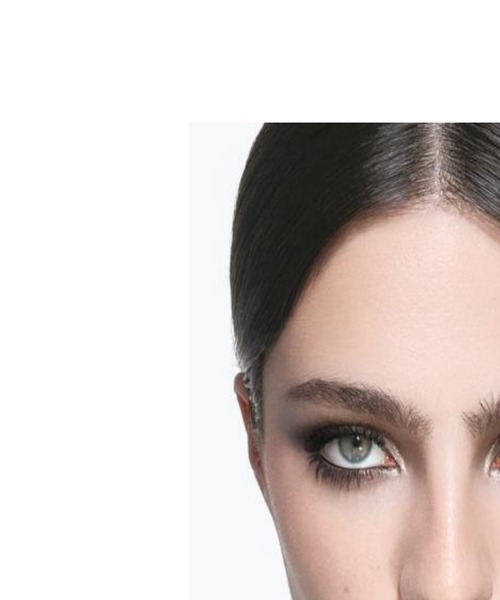
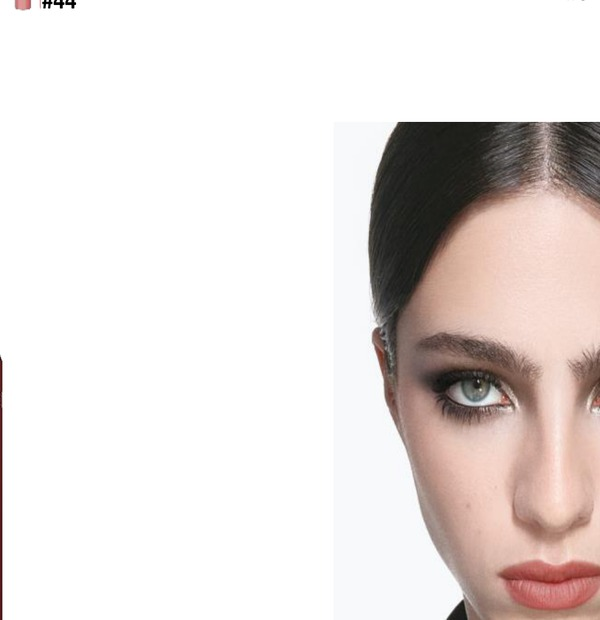
v5: wider model crops with lips+products visible, contain fit

diff --git a/app/index.html b/app/index.html
@@ -268,8 +268,8 @@ button{font-family:inherit;cursor:pointer;border:none;background:none;color:inhe
 
 /* Model photo */
 .combo-model{
-  width:100%;aspect-ratio:5/6;object-fit:cover;object-position:center top;
-  filter:brightness(.92) contrast(1.05);
+  width:100%;aspect-ratio:1/1;object-fit:contain;
+  background:#f5f0eb;
 }
 .combo-info{padding:1.2rem 1rem}
 .combo-label{
@@ -315,8 +315,8 @@ button{font-family:inherit;cursor:pointer;border:none;background:none;color:inhe
 .detail-close:active{background:rgba(196,134,122,.3)}
 
 .detail-model{
-  width:100%;aspect-ratio:5/6;object-fit:cover;object-position:center top;
-  filter:brightness(.92) contrast(1.05);
+  width:100%;aspect-ratio:1/1;object-fit:contain;
+  background:#f5f0eb;
   max-height:50vh;
 }
 .detail-content{padding:2rem 1.5rem 3rem;text-align:center;width:100%;max-width:500px;margin:0 auto}

diff --git a/index.html b/index.html
@@ -268,8 +268,8 @@ button{font-family:inherit;cursor:pointer;border:none;background:none;color:inhe
 
 /* Model photo */
 .combo-model{
-  width:100%;aspect-ratio:5/6;object-fit:cover;object-position:center top;
-  filter:brightness(.92) contrast(1.05);
+  width:100%;aspect-ratio:1/1;object-fit:contain;
+  background:#f5f0eb;
 }
 .combo-info{padding:1.2rem 1rem}
 .combo-label{
@@ -315,8 +315,8 @@ button{font-family:inherit;cursor:pointer;border:none;background:none;color:inhe
 .detail-close:active{background:rgba(196,134,122,.3)}
 
 .detail-model{
-  width:100%;aspect-ratio:5/6;object-fit:cover;object-position:center top;
-  filter:brightness(.92) contrast(1.05);
+  width:100%;aspect-ratio:1/1;object-fit:contain;
+  background:#f5f0eb;
   max-height:50vh;
 }
 .detail-content{padding:2rem 1.5rem 3rem;text-align:center;width:100%;max-width:500px;margin:0 auto}

diff --git a/app/sw.js b/app/sw.js
@@ -1,4 +1,4 @@
-const CACHE_NAME = 'ysl-lovenude-v3';
+const CACHE_NAME = 'ysl-lovenude-v4';
 const ASSETS = [
   './',
   './index.html',

diff --git a/sw.js b/sw.js
@@ -1,4 +1,4 @@
-const CACHE_NAME = 'ysl-lovenude-v3';
+const CACHE_NAME = 'ysl-lovenude-v4';
 const ASSETS = [
   './',
   './index.html',
